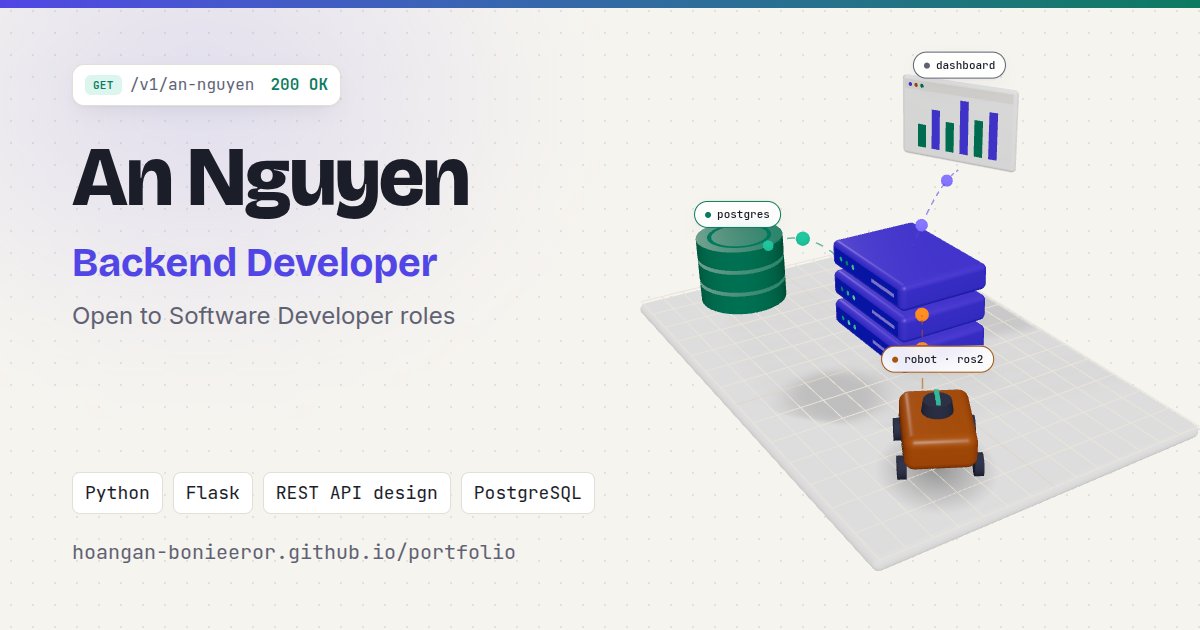
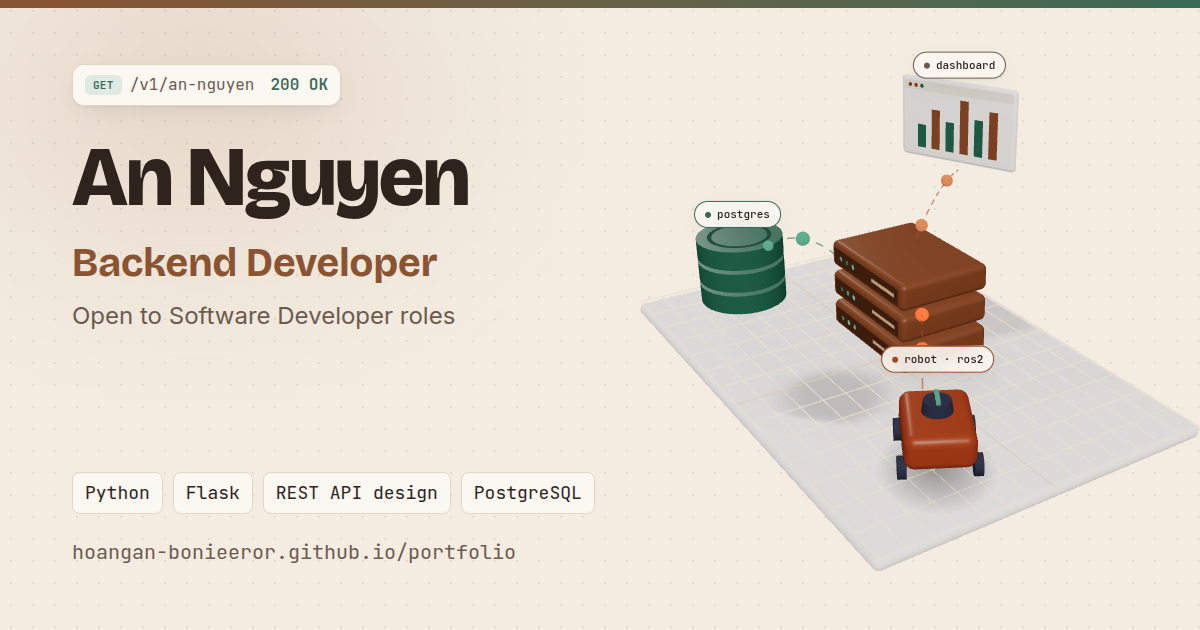
Switch light mode to a latte colour palette
- Cream/foam backgrounds, caramel accent, espresso text, sage and
  terracotta method colours; all text pairs meet WCAG AA
- Matching 3D scene details, favicon, 404 page and social preview image
- Dark mode unchanged

Claude-Session: https://claude.ai/code/session_011VLaWEpYioXevTkUVD6gAt

diff --git a/src/components/HeroScene.tsx b/src/components/HeroScene.tsx
@@ -107,7 +107,7 @@ function ApiServer({ p }: { p: ScenePalette }) {
           {/* front panel */}
           <mesh position={[0, 0, 0.655]}>
             <planeGeometry args={[1.6, 0.22]} />
-            <meshStandardMaterial color={p.dark ? "#1b1a3d" : "#3a31c4"} roughness={0.6} />
+            <meshStandardMaterial color={p.dark ? "#1b1a3d" : "#5e3a24"} roughness={0.6} />
           </mesh>
           {[0, 1, 2].map((j) => (
             <mesh
@@ -123,7 +123,7 @@ function ApiServer({ p }: { p: ScenePalette }) {
           ))}
           <mesh position={[0.45, 0, 0.66]}>
             <planeGeometry args={[0.55, 0.05]} />
-            <meshStandardMaterial color={p.dark ? "#4b45a8" : "#8d86f7"} />
+            <meshStandardMaterial color={p.dark ? "#4b45a8" : "#d6ad86"} />
           </mesh>
         </group>
       ))}
@@ -143,7 +143,7 @@ function Database({ p }: { p: ScenePalette }) {
           </mesh>
           <mesh position={[0, 0.141, 0]} rotation={[-Math.PI / 2, 0, 0]}>
             <ringGeometry args={[0.4, 0.46, 48]} />
-            <meshStandardMaterial color={p.dark ? "#1f8f74" : "#0b7a60"} />
+            <meshStandardMaterial color={p.dark ? "#1f8f74" : "#2c5646"} />
           </mesh>
         </group>
       ))}
@@ -322,7 +322,7 @@ export default function HeroScene({ palette: p, animate, active, onReady }: Prop
       aria-hidden
     >
       <ambientLight intensity={p.dark ? 0.55 : 0.85} />
-      <hemisphereLight args={[p.dark ? "#8b84ff" : "#ffffff", p.dark ? "#0d0f1a" : "#e8e2d6", p.dark ? 0.6 : 0.5]} />
+      <hemisphereLight args={[p.dark ? "#8b84ff" : "#ffffff", p.dark ? "#0d0f1a" : "#e6d6c2", p.dark ? 0.6 : 0.5]} />
       <directionalLight position={[5, 8, 6]} intensity={p.dark ? 1.3 : 1.6} />
       <directionalLight position={[-6, 3, -4]} intensity={0.35} color={p.dark ? "#3dd6ae" : "#ffffff"} />
 
@@ -333,7 +333,7 @@ export default function HeroScene({ palette: p, animate, active, onReady }: Prop
           <RoundedBox args={[7.0, 0.18, 4.6]} radius={0.09} smoothness={4} position={[0, -0.42, 0.3]}>
             <meshStandardMaterial color={p.surface} roughness={0.9} />
           </RoundedBox>
-          <gridHelper args={[7, 14, p.dark ? "#2b3150" : "#ddd6c8", p.dark ? "#20253d" : "#e9e4d9"]} position={[0, -0.32, 0.3]} scale={[1, 1, 4.5 / 7]} />
+          <gridHelper args={[7, 14, p.dark ? "#2b3150" : "#dccbb6", p.dark ? "#20253d" : "#e9ddce"]} position={[0, -0.32, 0.3]} scale={[1, 1, 4.5 / 7]} />
 
           <Wrap speed={1.4} rotationIntensity={0.08} floatIntensity={0.25}>
             <ApiServer p={p} />

diff --git a/public/404.html b/public/404.html
@@ -9,7 +9,7 @@
     <link rel="preconnect" href="https://fonts.gstatic.com" crossorigin />
     <link href="https://fonts.googleapis.com/css2?family=Bricolage+Grotesque:opsz,wght@12..96,800&family=Inter:wght@400;500&family=JetBrains+Mono:wght@400;600&display=swap" rel="stylesheet" />
     <style>
-      :root { --bg:#f6f4ef; --surface:#fff; --ink:#1b1d29; --muted:#5e6173; --line:#e3dfd6; --accent:#5146e5; --rose:#d93d52; --code:#1b1d29; }
+      :root { --bg:#f4ece1; --surface:#fbf7f1; --ink:#2e231d; --muted:#6b5a4e; --line:#e3d6c6; --accent:#8a5433; --rose:#ae3244; --code:#2a201a; }
       @media (prefers-color-scheme: dark) {
         :root { --bg:#0d0f1a; --surface:#151827; --ink:#eceef6; --muted:#9ca1b8; --line:#272c44; --accent:#8b84ff; --rose:#ff7a8a; --code:#0a0c15; }
       }
@@ -17,7 +17,7 @@
       body { min-height: 100vh; display: grid; place-items: center; padding: 16px; background: var(--bg); color: var(--ink); font-family: Inter, system-ui, sans-serif; }
       .card { width: min(100%, 480px); background: var(--surface); border: 1px solid var(--line); border-radius: 24px; padding: 32px; box-shadow: 0 24px 48px -16px rgb(0 0 0 / .2); }
       .req { display: inline-flex; gap: 8px; align-items: center; font: 500 13px "JetBrains Mono", monospace; color: var(--muted); }
-      .get { background: #dcf5ee; color: #0f9a7a; padding: 2px 8px; border-radius: 6px; font-weight: 600; font-size: 11px; }
+      .get { background: #dfebe2; color: #376a56; padding: 2px 8px; border-radius: 6px; font-weight: 600; font-size: 11px; }
       h1 { font: 800 72px/1 "Bricolage Grotesque", sans-serif; margin: 20px 0 8px; color: var(--rose); }
       h2 { font: 800 26px/1.2 "Bricolage Grotesque", sans-serif; }
       p { color: var(--muted); line-height: 1.6; margin-top: 10px; }

diff --git a/src/index.css b/src/index.css
@@ -7,25 +7,26 @@
    so light and dark themes stay in sync.
    ------------------------------------------------------------------ */
 :root {
-  --bg: #f6f4ef;
-  --surface: #ffffff;
-  --surface-2: #f0ede6;
-  --ink: #1b1d29;
-  --muted: #5e6173;
-  --line: #e3dfd6;
-  --accent: #5146e5;
-  --accent-soft: #e9e7fd;
+  /* Light theme: "latte" — foam, cream, caramel and espresso tones. */
+  --bg: #f4ece1;
+  --surface: #fbf7f1;
+  --surface-2: #efe5d8;
+  --ink: #2e231d;
+  --muted: #6b5a4e;
+  --line: #e3d6c6;
+  --accent: #8a5433;
+  --accent-soft: #f0e1d3;
   --on-accent: #ffffff;
-  --mint: #0b7a60;
-  --mint-soft: #dcf5ee;
-  --amber: #a3560c;
-  --amber-soft: #fdeedd;
-  --rose: #d93d52;
-  --rose-soft: #fde5e8;
-  --code-bg: #1b1d29;
-  --code-ink: #e6e8f2;
-  --shadow: 0 1px 2px rgb(27 29 41 / 0.04), 0 8px 24px -8px rgb(27 29 41 / 0.12);
-  --shadow-lg: 0 2px 4px rgb(27 29 41 / 0.04), 0 24px 48px -16px rgb(27 29 41 / 0.22);
+  --mint: #376a56;
+  --mint-soft: #dfebe2;
+  --amber: #a04a22;
+  --amber-soft: #f6e0d3;
+  --rose: #ae3244;
+  --rose-soft: #f7dee0;
+  --code-bg: #2a201a;
+  --code-ink: #ede6de;
+  --shadow: 0 1px 2px rgb(46 35 29 / 0.05), 0 8px 24px -8px rgb(46 35 29 / 0.14);
+  --shadow-lg: 0 2px 4px rgb(46 35 29 / 0.05), 0 24px 48px -16px rgb(46 35 29 / 0.25);
   color-scheme: light;
 }
 

diff --git a/index.html b/index.html
@@ -9,7 +9,7 @@
       content="An Nguyen is a Backend Developer who builds Python APIs, PostgreSQL data models and data pipelines — plus the systems that connect software to real hardware. Open to Backend and Software Developer roles."
     />
     <meta name="author" content="An Nguyen" />
-    <meta name="theme-color" content="#F6F4EF" media="(prefers-color-scheme: light)" />
+    <meta name="theme-color" content="#F4ECE1" media="(prefers-color-scheme: light)" />
     <meta name="theme-color" content="#0D0F1A" media="(prefers-color-scheme: dark)" />
 
     <meta property="og:type" content="website" />
